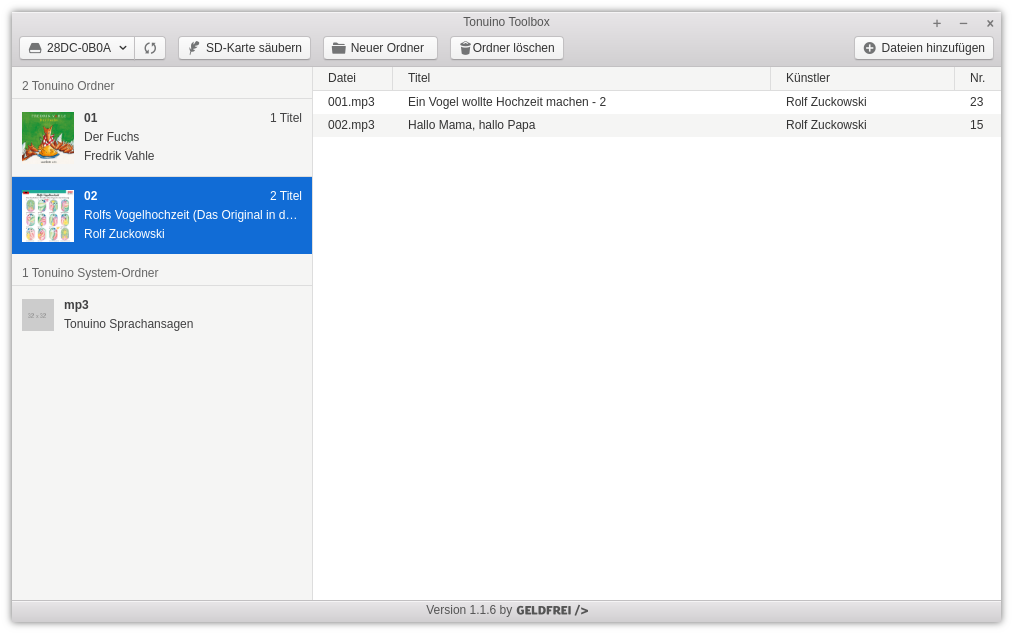
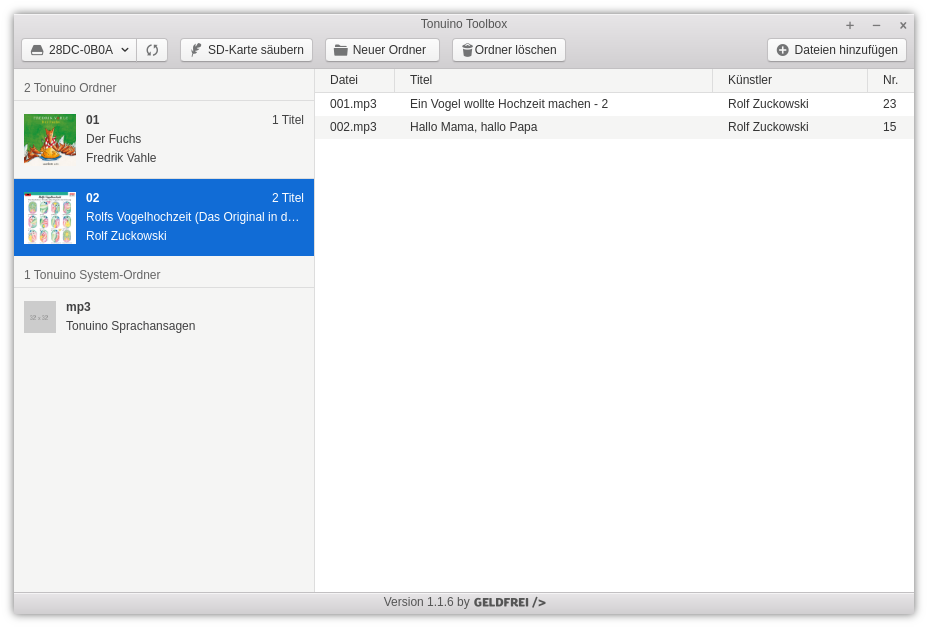
resize preview image

Changed region(s): [[0.0, 0.0, 1.0, 0.9682], [0.4062, 0.9379, 0.5938, 0.9682]]

diff --git a/start.js b/start.js
@@ -42,7 +42,7 @@ const registerProtocols = () => {
 const createWindow = () => {
   // Create the browser window.
   mainWindow = new BrowserWindow({
-    width: 800,
+    width: 900,
     height: 600,
     frame: false,
     webPreferences: { nodeIntegration: true },

diff --git a/main.js b/main.js
@@ -21,7 +21,7 @@ autoUpdater.logger = log;
 function createWindow () {
 
   mainWindow = new BrowserWindow({
-    width: 800,
+    width: 900,
     height: 600,
     webPreferences: {
       nodeIntegration: true,
